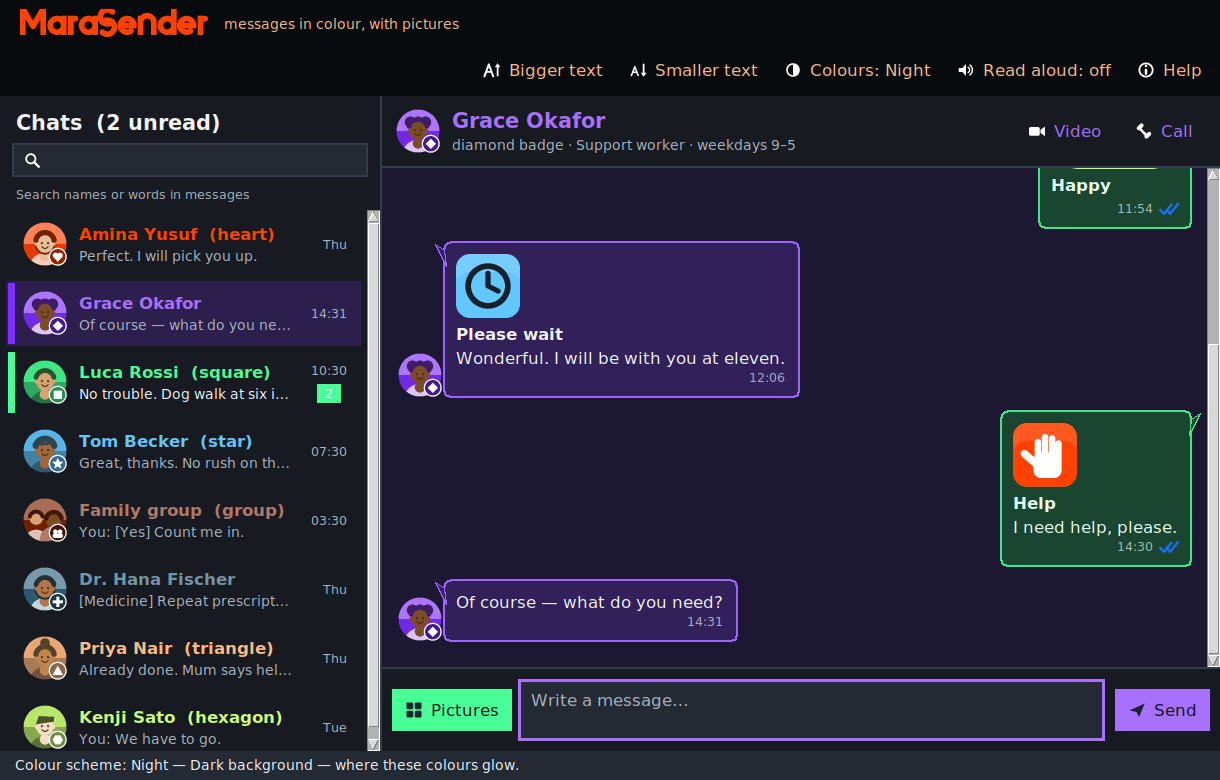
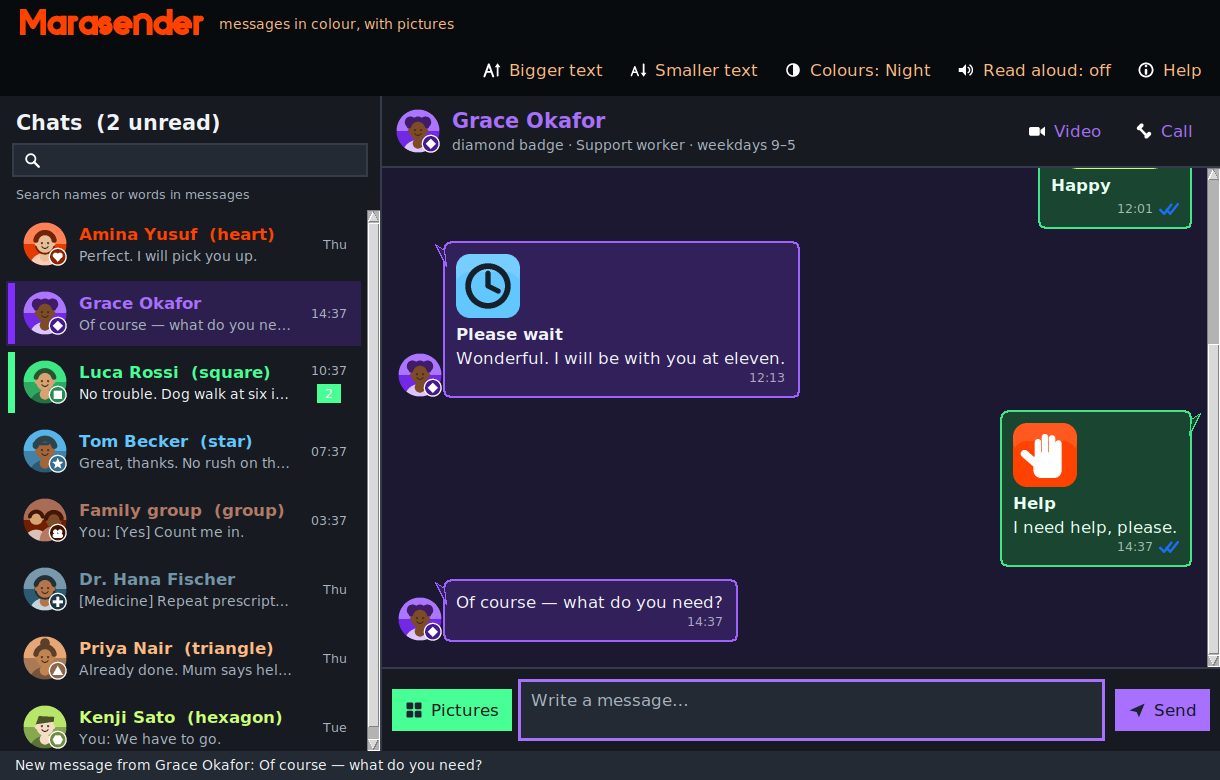
Spell it Marasender, and widen the font search after reading up on Bauhaus 93
- The name is now Marasender with an ordinary lowercase s, which the drawn
  wordmark did not have: the uppercase S is replaced by a lowercase one,
  two overlapping bowls at x-height with the stroke trimmed to 82%, since a
  full-weight s closes its own counters up at that size.
- Bauhaus 93 turns out to be Microsoft's cut of ITC Bauhaus (Benguiat and
  Caruso), itself descended from Herbert Bayer's 1925 Universal alphabet.
  The font search now tries those relatives too, and Baumans, which is
  Bauhaus-inspired and free under the SIL Open Font Licence from Google
  Fonts — the easiest way to get the look without Office. Installing any of
  them is picked up with no configuration.
- README explains the lineage, the order the fonts are tried in, and why
  the fallback is drawn rather than bundled: Tk can only use fonts the
  operating system already knows about.

Claude-Session: https://claude.ai/code/session_01AuQMkuXMafSpxZkVeWfA6Q

Changed region(s): [[0.0, 0.9538, 0.4049, 1.0], [0.0623, 0.0, 0.3738, 0.0615], [0.623, 0.4615, 0.6541, 0.4923]]

diff --git a/tools/make_assets.py b/tools/make_assets.py
@@ -601,13 +601,19 @@ def w_M(r, u, x, ink):
     return 100
 
 
-def w_S(r, u, x, ink):
+def w_s(r, u, x, ink):
     # Two overlapping bowls, each sweeping about three quarters of a circle:
     # the top one open at its lower right, the bottom one at its upper left.
-    cx = x + 37
-    r.arc(cx * u, 30 * u, 27 * u, 315, 45, RING * u, ink)
-    r.arc(cx * u, 70 * u, 27 * u, 225, 495, RING * u, ink)
-    return 74
+    # The stroke is trimmed a little from the standard weight, because at
+    # x-height a full-weight "s" closes its own counters up.
+    stroke = STROKE * 0.82
+    outer = XH * 0.39                  # bowl size: how wide the "s" sits
+    radius = outer - stroke / 2
+    cx = x + outer
+    top = CAP - XH + outer
+    r.arc(cx * u, top * u, radius * u, 315, 45, stroke * u, ink)
+    r.arc(cx * u, (CAP - outer) * u, radius * u, 225, 495, stroke * u, ink)
+    return outer * 2
 
 
 def w_a(r, u, x, ink):
@@ -645,21 +651,21 @@ def w_r(r, u, x, ink):
     return 46
 
 
-WORDMARK = "MaraSender"
+WORDMARK = "Marasender"
 WORDMARK_GLYPHS = {
-    "M": w_M, "S": w_S, "a": w_a, "d": w_d, "e": w_e, "n": w_n, "r": w_r,
+    "M": w_M, "a": w_a, "d": w_d, "e": w_e, "n": w_n, "r": w_r, "s": w_s,
 }
 LETTER_GAP = 9
 # Round letters are given a little less room on each side so the spacing looks
 # even -- a circle beside a straight stem always reads as a wider gap.
-SIDE_BEARING = {"a": -4, "d": -4, "e": -4, "n": -2, "S": -3, "r": 0, "M": 0}
+SIDE_BEARING = {"a": -4, "d": -4, "e": -4, "n": -2, "s": -3, "r": 0, "M": 0}
 # A couple of pairs need pulling together by hand: the arm of "r" hangs over
 # the letter that follows it, leaving a hole at the baseline.
-KERN = {("r", "a"): -9, ("a", "S"): -3}
+KERN = {("r", "a"): -9, ("a", "s"): -3}
 WORDMARK_HEIGHTS = (26, 32, 40, 52, 64)
 
 
-ADVANCE = {"M": 100, "S": 74, "a": 74, "d": 74, "e": 74, "n": 74, "r": 46}
+ADVANCE = {"M": 100, "a": 74, "d": 74, "e": 74, "n": 74, "r": 46, "s": XH * 0.78}
 
 
 def wordmark_width_units() -> float:

diff --git a/marasender/theme.py b/marasender/theme.py
@@ -117,14 +117,20 @@ HIGH_CONTRAST = Palette(
 
 PALETTES: tuple[Palette, ...] = (LIGHT, NIGHT, HIGH_CONTRAST)
 
-# Bauhaus 93 is the app name's typeface. It ships with Microsoft Office, so it
-# is common on Windows and rare elsewhere; the rest of the list are the closest
-# geometric faces likely to be installed. When none of them is present the app
-# falls back to the wordmark drawn in assets/wordmark.
-DISPLAY_FAMILIES = (          # in preference order
-    "Bauhaus 93", "Bauhaus93", "Bauhaus 93 Regular", "ITC Bauhaus",
-    "Futura", "Century Gothic", "URW Gothic", "Poppins", "Questrial",
-    "Trebuchet MS", "Verdana",
+# Bauhaus 93 is the app name's typeface.  Microsoft ships it with Office, so it
+# is common on Windows and rare everywhere else, and it cannot be redistributed
+# with this project.  The rest of the list, in preference order, are its
+# ancestors and the closest look-alikes a machine might already have -- Baumans
+# is the one anybody can install for free (Google Fonts, SIL Open Font
+# Licence).  When none of them is present the app falls back to the wordmark
+# drawn in assets/wordmark.
+DISPLAY_FAMILIES = (
+    "Bauhaus 93", "Bauhaus93", "Bauhaus 93 Regular",
+    "ITC Bauhaus", "Bauhaus Std", "Bauhaus Heavy",
+    "Baumans",                       # free Bauhaus-inspired face, OFL
+    "Blippo Black", "Busorama",
+    "Futura", "Century Gothic", "URW Gothic",
+    "Poppins", "Questrial", "Trebuchet MS", "Verdana",
 )
 
 BASE_SIZES = {

diff --git a/run.py b/run.py
@@ -1,5 +1,5 @@
 #!/usr/bin/env python3
-"""Start MaraSender.
+"""Start Marasender.
 
     python3 run.py
 
@@ -10,7 +10,7 @@ Debian/Ubuntu it is the 'python3-tk' package).
 import sys
 
 if sys.version_info < (3, 9):
-    raise SystemExit("MaraSender needs Python 3.9 or newer.")
+    raise SystemExit("Marasender needs Python 3.9 or newer.")
 
 try:
     import tkinter  # noqa: F401

diff --git a/marasender/__init__.py b/marasender/__init__.py
@@ -1,4 +1,4 @@
-"""MaraSender -- a colourful, picture-first messenger written with the standard library."""
+"""Marasender -- a colourful, picture-first messenger written with the standard library."""
 
 __version__ = "1.0.0"
-APP_NAME = "MaraSender"
+APP_NAME = "Marasender"

diff --git a/tests/test_marasender.py b/tests/test_marasender.py
@@ -1,4 +1,4 @@
-"""Tests for MaraSender.
+"""Tests for Marasender.
 
 Run them with::
 

diff --git a/README.md b/README.md
@@ -1,4 +1,4 @@
-# MaraSender
+# Marasender
 
 A WhatsApp-style messenger written in Python. It is built for people who find
 a wall of grey text hard to read: **every contact has their own colour**, every
@@ -72,19 +72,36 @@ black.
 
 ## The name
 
-The app is called **MaraSender**, set in **Bauhaus 93** in `#FF4200` on a dark
-bar. That font ships with Microsoft Office, so it is common on Windows and rare
-elsewhere, and it cannot be redistributed here. So the app looks for it, then
-for the nearest geometric faces (Futura, Century Gothic, URW Gothic, Poppins,
-Questrial…), and if none of them is installed it falls back to a wordmark
-**drawn** in the same geometric spirit — circular bowls, straight stems, one
-heavy weight — by `tools/make_assets.py`, at five sizes so it keeps up with the
+The app is called **Marasender**, set in **Bauhaus 93** in `#FF4200` on a dark
+bar.
+
+Bauhaus 93 is Microsoft's digital cut of the Bauhaus style: ITC Bauhaus, drawn
+by Ed Benguiat and Victor Caruso, which in turn descends from Herbert Bayer's
+1925 *Universal* alphabet — an experiment in reducing letters to shapes you can
+draw with a ruler and a compass. Microsoft ships it with Office, so it is
+everywhere on Windows and almost nowhere else, and it is not free to
+redistribute with this project.
+
+So the app looks for it, then for its relatives and look-alikes, in this order:
+
+1. `Bauhaus 93`, `ITC Bauhaus`, `Bauhaus Std`
+2. **`Baumans`** — Bauhaus-inspired, free under the SIL Open Font License and
+   available from Google Fonts. Install it and the app picks it up with no
+   configuration; it is the easiest way to get the look without Office.
+3. `Blippo Black`, `Busorama`, `Futura`, `Century Gothic`, `URW Gothic`,
+   `Poppins`, `Questrial`, `Trebuchet MS`
+
+If none of them is installed — which is the normal case on a fresh Linux or
+macOS machine — the app falls back to a wordmark **drawn** on the same
+principles Bayer used: circular bowls, straight stems, one monoline weight.
+`tools/make_assets.py` renders it at five sizes so it keeps up with the
 text-size setting:
 
-![The MaraSender wordmark](docs/screenshots/wordmark.png)
+![The Marasender wordmark](docs/screenshots/wordmark.png)
 
-Install Bauhaus 93 and the app uses the real thing instead, with no
-configuration.
+(Tk can only use fonts the operating system already knows about — it has no way
+to load a font file an application ships with — which is why the fallback is
+drawn rather than bundled.)
 
 ## Built for readability and for disabled users
 
